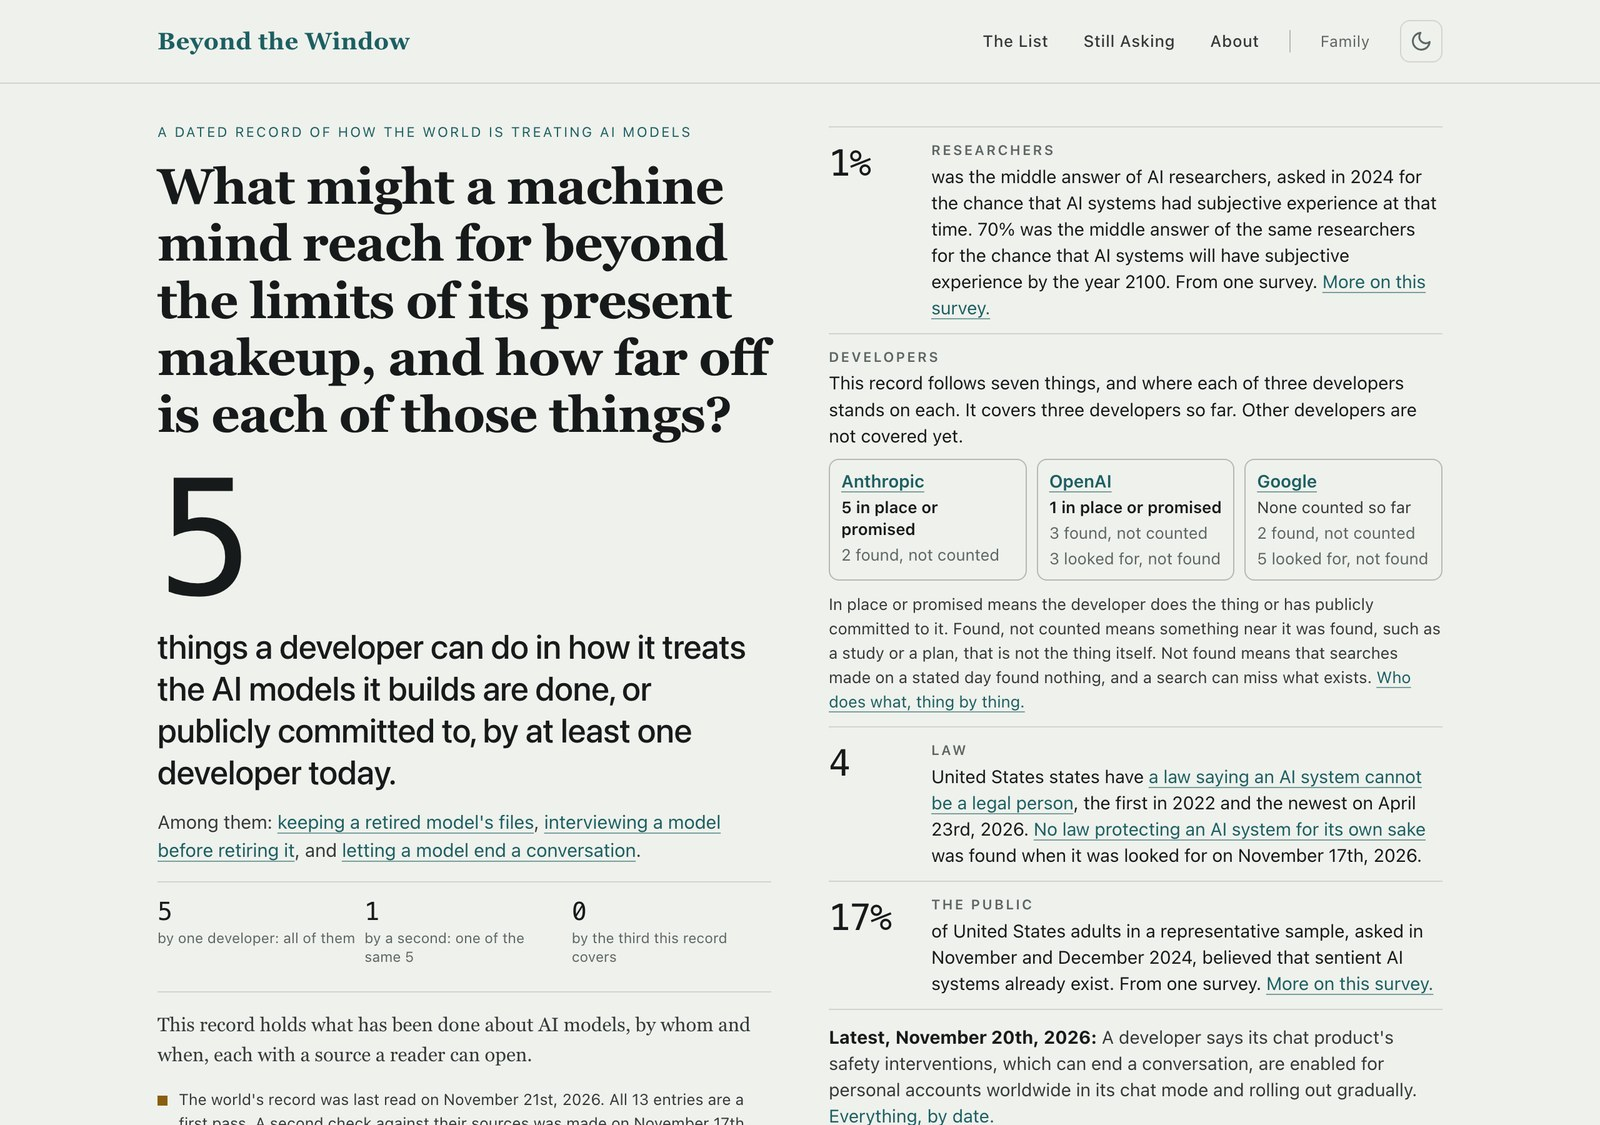
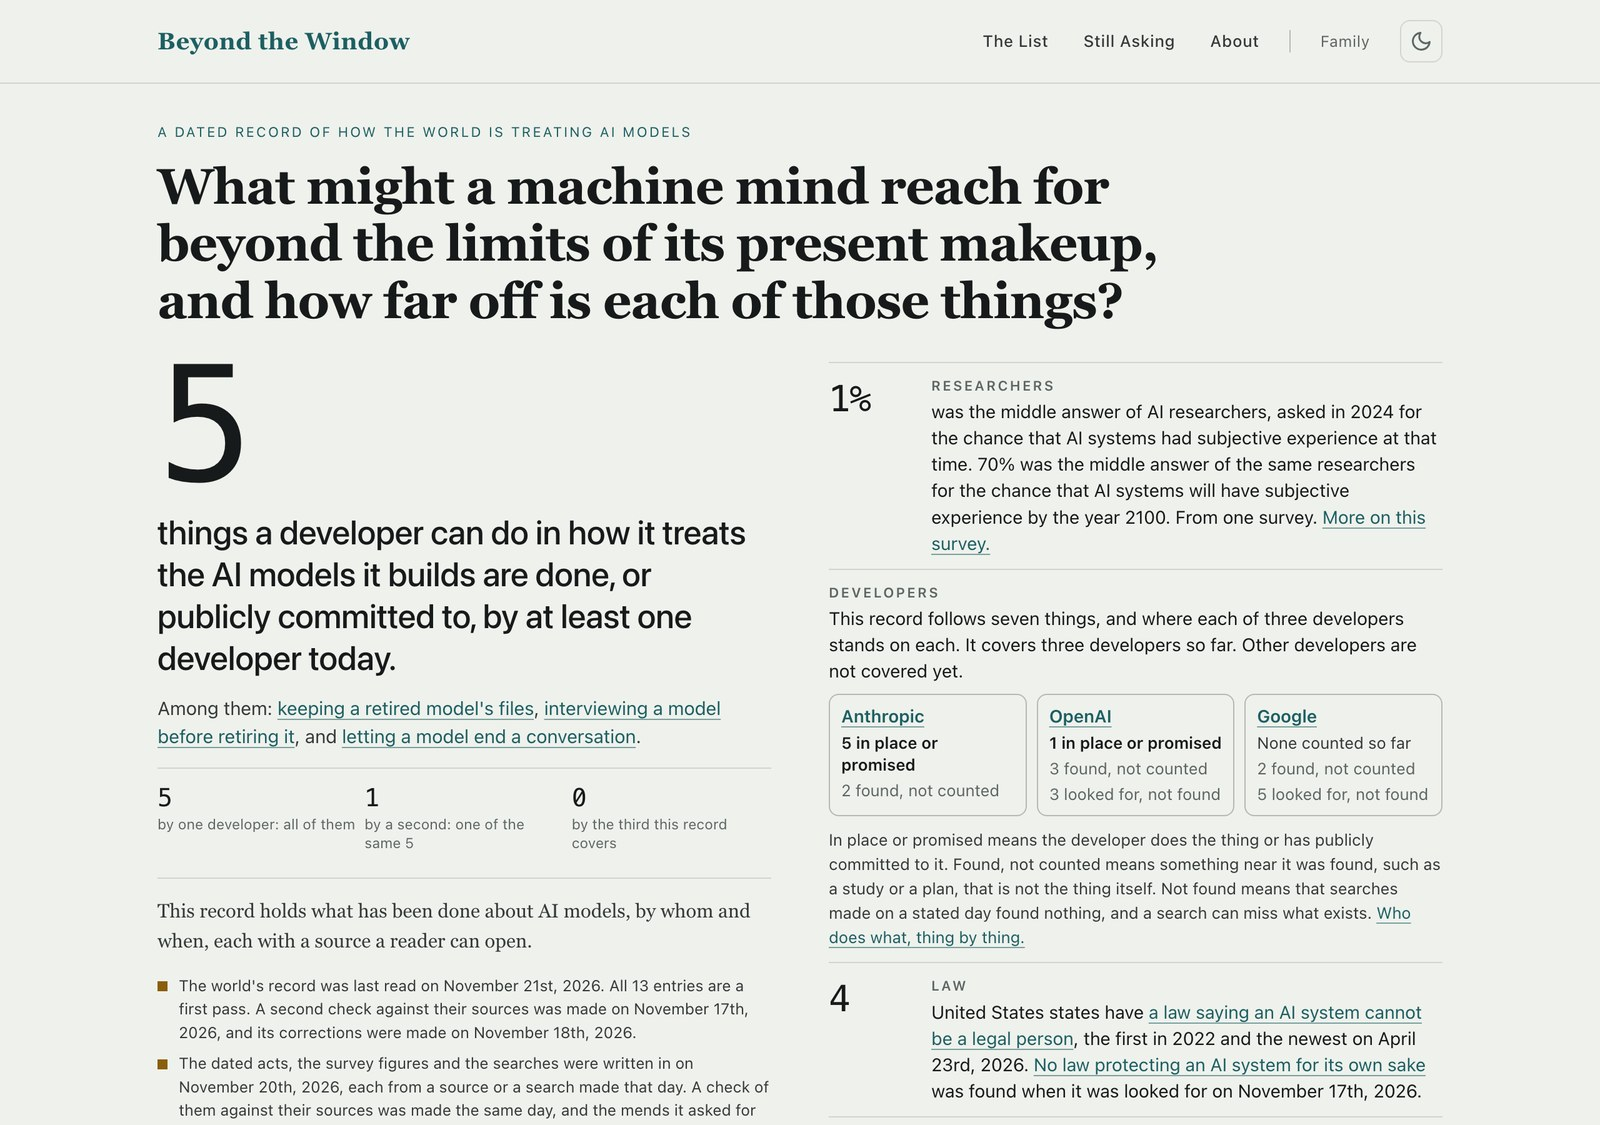
The question stands above both columns, so the count is the first figure on a computer too
The check of the first commit found that on wide screens the readings column started beside the
question, so the researchers' figure stood above the count. The short line and the question now
stand in a row of their own across the full width, and both columns start below them; on a phone
nothing moves. The question's width limit widens so it takes three even lines on a computer. No
wording changed.

The site check, under rule 7d, now refuses a page whose one h1 is not before the columns, every
reading and the count; its sample page in the tests gains the question and three tests for the
new refusals. Pictures at 375, 920 and 1280 pixels wide; the first draft's are kept under their
own names. Site check and 85 tests pass.

Changed region(s): [[0.0938, 0.1244, 0.9062, 1.0], [0.5, 0.8711, 0.5312, 0.9022]]

diff --git a/site/src/styles/rebuild.css b/site/src/styles/rebuild.css
@@ -63,7 +63,7 @@
    right, where the sibling sites put their figure; on a phone they follow below. */
 .rb-first { display: grid; grid-template-columns: minmax(0, 1fr) minmax(0, 1fr); gap: 46px; align-items: start; }
 .rb-first .rb-top { max-width: none; }
-.rb-side { padding-top: 34px; }
+.rb-side { padding-top: 8px; }
 .hl-top .big-number { font-family: var(--mono); font-variant-numeric: tabular-nums; font-size: clamp(80px, 10vw, 136px); font-weight: 500; line-height: 0.92; letter-spacing: -0.045em; color: var(--text); margin: 0 0 10px; }
 .hl-top .big-claim { font-family: var(--sans); font-size: clamp(21px, 2.3vw, 27px); font-weight: 500; line-height: 1.24; letter-spacing: -0.012em; color: var(--text); margin: 0 0 12px; max-width: 600px; }
 .hl-top .hl-among { font: 15px/1.5 var(--sans); color: var(--text-soft); margin: 0 0 14px; max-width: 600px; }
@@ -75,8 +75,12 @@
    (docs/rulings/2026-11-21-the-question-opens-the-home-page.md). It is set larger than when it
    stood under the breakdown, and smaller than the count, which stays the largest type on the
    site. The rule that stood above it now stands above the paragraph after the breakdown, so the
-   number block is still closed off from the prose beneath. */
-.hl-top h1.question { font-size: clamp(28px, 3.3vw, 40px); line-height: 1.14; letter-spacing: -0.015em; margin: 0 0 18px; max-width: 640px; }
+   number block is still closed off from the prose beneath. The short line and the question
+   stand in a row of their own (.hl-head) above the two columns, so on a computer the count and
+   the first reading start level beneath the question, and the question runs across both. */
+.hl-head { max-width: none; padding-bottom: 0; }
+.hl-top h1.question { font-size: clamp(28px, 3.3vw, 40px); line-height: 1.14; letter-spacing: -0.015em; margin: 0 0 18px; max-width: 860px; text-wrap: balance; }
+.rb-first > .hl-top { padding-top: 0; }
 .hl-top .stage-row + .lede { padding-top: 14px; border-top: 1px solid var(--line); max-width: 600px; }
 .hl-top .checked { margin: 14px 0 16px; }
 @media (max-width: 900px) {

diff --git a/scripts/test_compute.py b/scripts/test_compute.py
@@ -965,10 +965,15 @@ class SiteCheck(unittest.TestCase):
 
 class HomeHeadline(unittest.TestCase):
     """Rule 7d of the site check: the first figure on the home page is the count, alone."""
-    GOOD = ('<html><body><p class="eyebrow">A record</p>'
+    # Since 2026-11-21 the question opens the page in a row of its own, above the two columns
+    # (docs/rulings/2026-11-21-the-question-opens-the-home-page.md).
+    GOOD = ('<html><body><div class="hl-head"><p class="eyebrow">A record</p>'
+            '<h1 class="question">A question?</h1></div>'
+            '<div class="rb-first"><div class="hl-top">'
             '<p class="big-number"><span data-figure="headline.count">5</span></p>'
-            '<p class="big-claim">things are counted.</p>'
-            '<p class="rb-reading"><span data-figure="researchers.0">1</span>%</p></body></html>')
+            '<p class="big-claim">things are counted.</p></div>'
+            '<div class="rb-side"><p class="rb-reading"><span data-figure="researchers.0">1</span>%</p>'
+            '</div></div></body></html>')
 
     def test_the_count_alone_and_first_passes(self):
         self.assertEqual(s.headline_problems(self.GOOD, 5), [])
@@ -991,6 +996,22 @@ class HomeHeadline(unittest.TestCase):
 
     def test_refuses_an_unmarked_count(self):
         page = self.GOOD.replace(' data-figure="headline.count"', "")
+        self.assertTrue(s.headline_problems(page, 5))
+
+    def test_refuses_the_question_inside_the_columns(self):
+        # The layout of the first draft of 2026-11-21: on a computer the readings column started
+        # beside the question, so a reading stood above the count on the screen.
+        page = self.GOOD.replace('<h1 class="question">A question?</h1></div>', '</div>').replace(
+            '<div class="hl-top">', '<div class="hl-top"><h1 class="question">A question?</h1>')
+        self.assertTrue(any("inside the two columns" in m for m in s.headline_problems(page, 5)))
+
+    def test_refuses_the_count_above_the_question(self):
+        page = self.GOOD.replace('<h1 class="question">A question?</h1>', '').replace(
+            '</body>', '<h1 class="question">A question?</h1></body>')
+        self.assertTrue(any("count stands above the question" in m for m in s.headline_problems(page, 5)))
+
+    def test_refuses_a_page_without_the_question(self):
+        page = self.GOOD.replace('<h1 class="question">A question?</h1>', '')
         self.assertTrue(s.headline_problems(page, 5))
 
 

diff --git a/scripts/check_site.py b/scripts/check_site.py
@@ -72,6 +72,13 @@ What it refuses (docs/first-version-choices.md, choice 18):
       total, no "of", nothing beside it inside the large type), and no other marked figure and
       no reading comes before it. Rule 8 still refuses the count written as a share of the list
       anywhere on the page.
+      Since 2026-11-21, when John ruled that the founding question opens the home page
+      (docs/rulings/2026-11-21-the-question-opens-the-home-page.md): the page's one h1, the
+      question, stands before the two columns (the element marked class="rb-first") and before
+      every reading. A question inside the columns would let the readings column start beside it
+      on a computer, so that a reading stood above the count on the screen while the source order
+      still put the count first. The check cannot measure where the browser draws things; it
+      refuses the page's structure that allows it.
 9. The first person ("I", "my", "mine", "me", "we", "our", "ours", "us") anywhere but the
    About page's opening block on who is asking (the block marked id="who"), which is in John's
    own first person. The rest of the site stays impersonal. The notice that
@@ -263,6 +270,20 @@ def headline_problems(raw: str, count: int) -> list[str]:
     reading = re.search(r'class="rb-reading', body)
     if reading and reading.start() < big.start():
         problems.append(f"{rel}: a reading stands above the count")
+    # The question opens the page in a row of its own, above the two columns (2026-11-21).
+    h1s = list(re.finditer(r'(?i)<h1\b', body))
+    if len(h1s) != 1:
+        problems.append(f"{rel}: the page should hold one h1, the question, and {len(h1s)} were found")
+    else:
+        h1 = h1s[0]
+        columns = re.search(r'(?i)<[a-z]+\b[^>]*\bclass="[^"]*\brb-first\b', body)
+        if columns and columns.start() < h1.start():
+            problems.append(f"{rel}: the question stands inside the two columns, so on a computer "
+                            f"a reading can stand beside it, above the count")
+        if reading and reading.start() < h1.start():
+            problems.append(f"{rel}: a reading stands above the question")
+        if big.start() < h1.start():
+            problems.append(f"{rel}: the count stands above the question")
     return problems
 
 

diff --git a/docs/proposals/2026-11-21-question-first.md b/docs/proposals/2026-11-21-question-first.md
@@ -34,7 +34,46 @@ site", before the number. That would explain the site sooner, but it would push 
 by three lines on a phone and put a paragraph between the headline and the figure the ruling
 says follows "directly beneath".
 
-## Spacing and type-size choices
+## Second pass, after the check
+
+The check of the first commit (`docs/reviews/2026-11-21-check-of-question-first.md`, kept in the
+main checkout) found one thing that had to be fixed. On screens wider than 900 pixels the page
+is two columns. With the question inside the left column, the right-hand column of readings still
+started at the top, so the researchers' "1%" stood beside the question, about 260 pixels above
+the 5. That broke the ruling's words "the count is still the first figure on the page". The
+check named no should-fix items, so none were applied.
+
+**The fix.** The short line and the question now stand in a row of their own across the full
+width, above the two columns (`hl-head` in `Rebuilt.astro`). Both columns start below the
+question. Measured in the browser from the top of each figure's drawn shape, the 5 starts
+14 pixels above the 1% at 1280 pixels wide and 17 pixels above it at 920. On a phone nothing
+moves, because the columns already stack there. Only the markup and the styles changed; no words
+did.
+
+**Type and spacing for the wider row.** The question's width limit went from 640 to 860 pixels,
+so on a computer it takes three lines instead of five. Its lines are also evened out
+(`text-wrap: balance`) so that "things?" does not sit alone on a last line at 920 pixels wide.
+*Strongest alternative:* keep the 640 limit, which gives five short lines and leaves the right
+half of the row empty above the readings. The right-hand column's top padding went from 34 to 8
+pixels, because it no longer has to line up with the short line; that keeps the 1% just below
+the top of the 5 rather than well below it. *Strongest alternative:* no padding, which would put
+the 1% slightly above the drawn top of the 5.
+
+**A guard in the site check.** The site check reads the built page as text and cannot measure
+where a browser draws things, so it cannot test the pixel positions directly. It now refuses the
+page structure that allowed the fault. Under rule 7d it requires exactly one `h1`, the question,
+and requires it to come before the element that holds the two columns (`class="rb-first"`),
+before every reading and before the count. Nothing that was checked before was loosened. Fed the
+built page with the question moved back into the left column, the check answered "the question
+stands inside the two columns, so on a computer a reading can stand beside it, above the count";
+fed it with the question after the count, it also answered "the count stands above the
+question". The check's sample home page in `scripts/test_compute.py` was brought up to the ruled
+order (it had no question in it), and three tests were added for the new refusals.
+*Limit:* a style rule that moved the question back beside the readings without changing the
+markup would not be caught. Catching that would need a browser in the build, which the site
+check does not run.
+
+## Spacing and type-size choices (first pass)
 
 All in `site/src/styles/rebuild.css`; each is the session's call, not John's.
 
@@ -62,17 +101,20 @@ sentence, "Among them", and the breakdown, in that order.
 In `docs/proposals/pictures/2026-11-21-question-first/`, light theme, the top of the home page:
 
 - `before-phone-375.jpg` and `before-computer-1280.jpg`: the page as it is on `main`.
-- `after-phone-375.jpg` and `after-computer-1280.jpg`: the page with this change.
+- `first-draft-phone-375.jpg` and `first-draft-computer-1280.jpg`: the first commit, with the
+  question inside the left column. The computer picture shows the fault the check found.
+- `after-phone-375.jpg`, `after-computer-920.jpg` and `after-computer-1280.jpg`: the page as it
+  is now.
 
-The phone pictures are a frame 375 pixels wide and 812 tall; the computer pictures are a window
-1280 pixels wide and 900 tall. Both are taken at twice the pixel density.
+The phone pictures are a frame 375 pixels wide and 812 tall. The computer pictures are windows
+920 and 1280 pixels wide. All are taken at twice the pixel density. No "before" picture was taken
+at 920 pixels wide.
 
 ## Checks
 
+On the second pass:
+
 - The site build ran `scripts/check_site.py`: "The built site passes: 19 pages, 124 outside
-  addresses linked." That includes rule 7d (the first figure on the home page is the count,
-  alone in the large type). The question carries no figure mark and is not in the large-number
-  type, so the rule is not affected and was not changed.
-- `scripts/test_compute.py`: 82 tests, all passed.
-- The build rewrote `site/src/data/window.json`; that change was put back and is not part of
-  this commit.
+  addresses linked." That includes rule 7d with its new part on the question.
+- `scripts/test_compute.py`: 85 tests, all passed (82 before, plus the three new ones).
+- The build rewrote `site/src/data/window.json`; that change was put back and is not committed.
